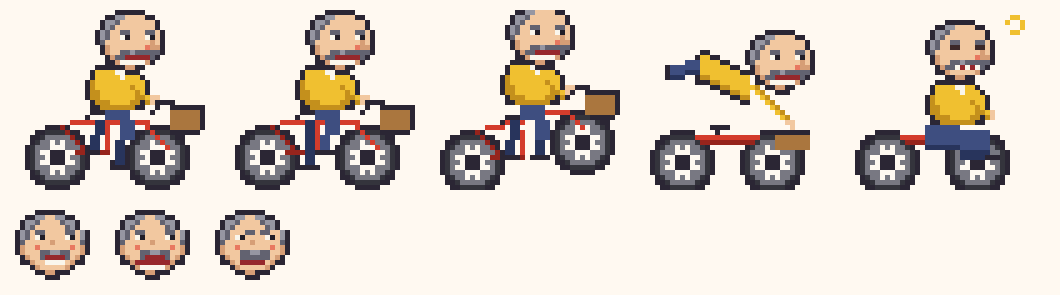
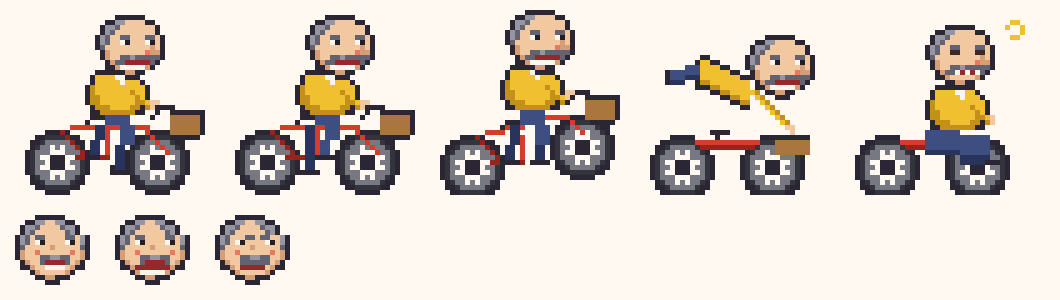
fix(core): おじさんの跳ぶコマで頭の輪郭の最上段が欠けていたのを直す（コマを 40×37 に）
跳ぶコマは頭を 1 行上に反らせて描いたため、頭の輪郭の最上段が格子の外に出て
「ジャンプしたときの頭が切れる」（会長 QA 2026-09-15）。全コマを 1 行高い 40×37 に揃え、
跳ぶコマの頭を格子の中に描き直した。原点は不透明部分から算出するので走者の位置は不変。

Claude-Session: https://claude.ai/code/session_01JgCJCvUMqB6Kcdt1TRjijn

diff --git a/Packages/GameKit/Sources/Core/OjisanPixel.swift b/Packages/GameKit/Sources/Core/OjisanPixel.swift
@@ -11,7 +11,7 @@ import SwiftUI
 /// 設定: 大阪に住む 65 歳。薄い頭に白髪まじりの側頭部、太い眉、鼻の下のヒゲ（メガネは無し・会長
 /// 指示 2026-09-15）、笑顔、黄色のポロシャツ、紺のズボン、前かご付きの赤いママチャリ。
 ///
-/// 走者のコマは 40×36 ドット（右向き）。1 ドット = 整数 pt で描く（`PixelSprite.cgImage(scale:)`）。
+/// 走者のコマは 40×37 ドット（右向き）。1 ドット = 整数 pt で描く（`PixelSprite.cgImage(scale:)`）。
 /// 正面顔は 16×15 ドット（ハブのカード・リザルト・LP）。
 public enum OjisanPixel {
     /// 共通パレット（SFC 風に彩度をやや落とし、暗い輪郭で締める）。
@@ -98,8 +98,9 @@ public enum OjisanPixel {
 
     // MARK: 格子（手で直すときは行の長さを揃えること。PixelArtTests が検査する）
 
-    // ride0 40x36
+    // ride0 40x37
     static let ride0Rows: [String] = [
+        "........................................",
         ".....................KKKKKK.............",
         "...................KKHHSSSSKK...........",
         "..................KHHhSSSSSSSK..........",
@@ -137,8 +138,9 @@ public enum OjisanPixel {
         ".....KKTTTTTKK...........KKTTTTTKK......",
         ".......KKKKK...............KKKKK........",
     ]
-    // ride1 40x36
+    // ride1 40x37
     static let ride1Rows: [String] = [
+        "........................................",
         ".....................KKKKKK.............",
         "...................KKHHSSSSKK...........",
         "..................KHHhSSSSSSSK..........",
@@ -176,8 +178,9 @@ public enum OjisanPixel {
         ".....KKTTTTTKK...........KKTTTTTKK......",
         ".......KKKKK...............KKKKK........",
     ]
-    // jump 40x36
+    // jump 40x37
     static let jumpRows: [String] = [
+        "...................KKKKKK...............",
         ".................KKHHSSSSKK.............",
         "................KHHhSSSSSSSK............",
         "................KHhSSSSSSSSK............",
@@ -215,8 +218,9 @@ public enum OjisanPixel {
         "...KKTtttttTKK..........................",
         "....KKTTTTTKK...........................",
     ]
-    // tumble 40x36
+    // tumble 40x37
     static let tumbleRows: [String] = [
+        "........................................",
         "........................................",
         "........................................",
         "........................................",
@@ -254,8 +258,9 @@ public enum OjisanPixel {
         "...KKTtttttTKK.......KKTtttttTKK........",
         "....KKTTTTTKK.........KKTTTTTKK.........",
     ]
-    // dizzy 40x36
+    // dizzy 40x37
     static let dizzyRows: [String] = [
+        "........................................",
         "........................................",
         "................................YY......",
         "...................KKKKKK......Y..Y.....",

diff --git a/Packages/GameKit/Tests/PixelArtTests/PixelArtTests.swift b/Packages/GameKit/Tests/PixelArtTests/PixelArtTests.swift
@@ -10,11 +10,11 @@ import UniformTypeIdentifiers
 /// 「拡大は整数倍で、色が混ざらない」の 3 点。
 @Suite("ドット絵")
 struct PixelArtTests {
-    @Test("走者のコマは 40×36、正面顔は 16×15 で、行の長さが揃いパレットに無い文字が無い")
+    @Test("走者のコマは 40×37、正面顔は 16×15 で、行の長さが揃いパレットに無い文字が無い")
     func spritesAreWellFormed() {
         for frame in OjisanPixel.RiderFrame.allCases {
             let s = OjisanPixel.rider(frame)
-            #expect(s.width == 40 && s.height == 36, "\(frame): \(s.width)×\(s.height)")
+            #expect(s.width == 40 && s.height == 37, "\(frame): \(s.width)×\(s.height)")
             #expect(s.undefinedKeys.isEmpty, "\(frame): パレットに無い文字 \(s.undefinedKeys)")
             #expect(s.opaqueBounds != nil)
         }
@@ -69,7 +69,7 @@ struct PixelArtTests {
         let frames = OjisanPixel.RiderFrame.allCases.map { OjisanPixel.rider($0) }
         let faces = OjisanPixel.Face.allCases.map { OjisanPixel.face($0) }
         let w = (40 * scale + 10) * frames.count + 10
-        let h = 36 * scale + 15 * scale + 40
+        let h = 37 * scale + 15 * scale + 40
         let ctx = try #require(CGContext(data: nil, width: w, height: h, bitsPerComponent: 8, bytesPerRow: 0,
                                           space: CGColorSpaceCreateDeviceRGB(),
                                           bitmapInfo: CGImageAlphaInfo.premultipliedLast.rawValue))

diff --git a/Packages/GameKit/Sources/GameRunner/RunnerRider.swift b/Packages/GameKit/Sources/GameRunner/RunnerRider.swift
@@ -3,7 +3,7 @@ import Foundation
 
 /// 走者のコマの選び方と絵の置き方（#701）。
 ///
-/// **SpriteKit に依存しない純粋な計算**にしてある。コマそのもの（40×36 ドット・右向き）は
+/// **SpriteKit に依存しない純粋な計算**にしてある。コマそのもの（40×37 ドット・右向き）は
 /// `Core` の `OjisanPixel` が持ち、`RunnerScene` はここで決めたコマのテクスチャを 1 枚の
 /// スプライトに差し替えるだけ（寸法・位相の規則をシーンに書かない）。
 enum RunnerRider {

diff --git a/Packages/GameKit/Tests/GameRunnerTests/RiderTests.swift b/Packages/GameKit/Tests/GameRunnerTests/RiderTests.swift
@@ -90,7 +90,7 @@ struct RunnerRiderTests {
         let opaqueHeight = Double(sprite.opaqueBounds?.height ?? 0)
         #expect(opaqueHeight > 0)
         #expect(abs(placement.unit * opaqueHeight - RunnerRider.visualHeight) < 1e-9)
-        // 1 ドット ≈ 0.33 単位（40×36 のコマで走者が幅 13・高さ 12 ほどに描かれる）。
+        // 1 ドット ≈ 0.33 単位（40×37 のコマで走者が幅 13・高さ 12 ほどに描かれる）。
         #expect(placement.unit > 0.3 && placement.unit < 0.36)
     }
 
